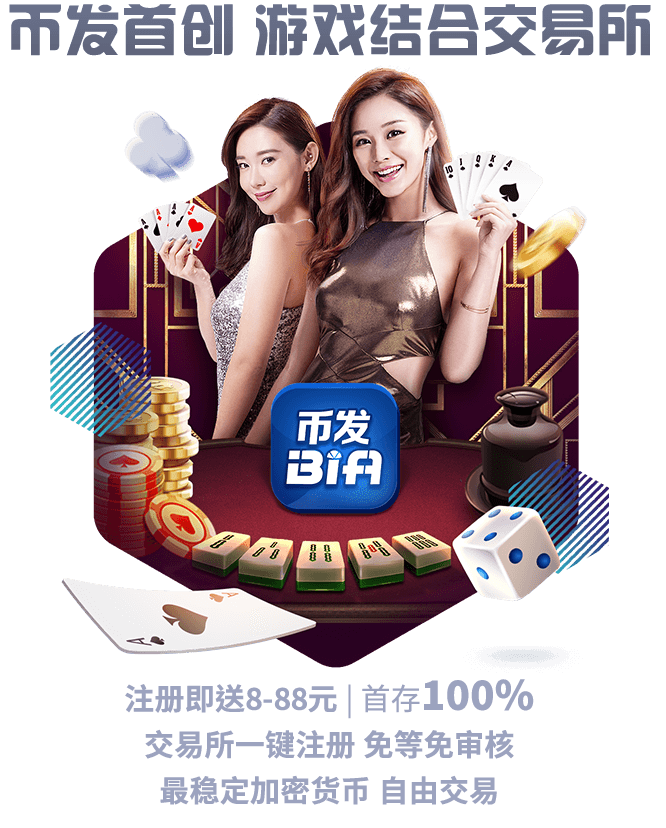
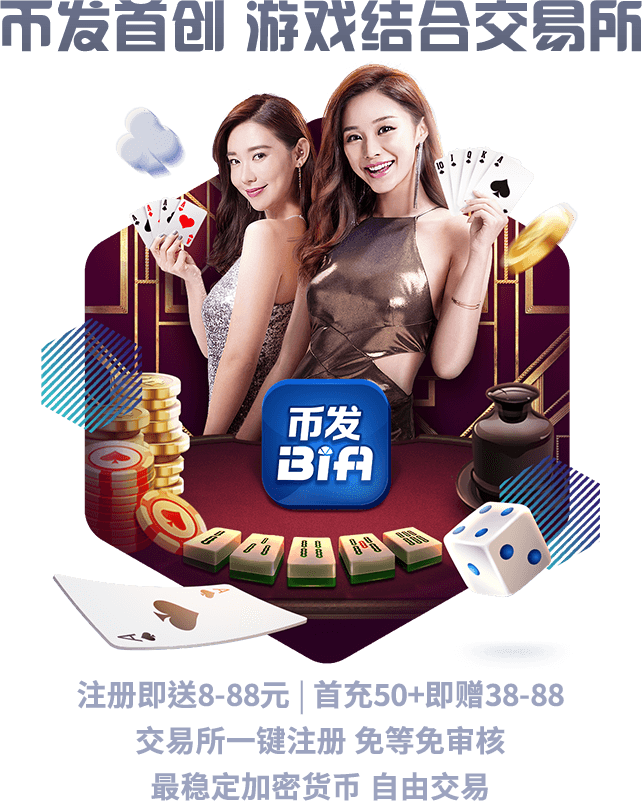
[MOD]幣發 - PC版、手機版-落地頁/loading頁> 調整文案內容

diff --git a/resource/src/assets/css/mobile/pc.scss b/resource/src/assets/css/mobile/pc.scss
@@ -38,7 +38,7 @@ body {
     position: absolute;
     top: 0;
     left: 128px;
-    width: 537px;
+    width: 654px;
     height: 104px;
     -webkit-animation-delay: 0.25s;
     animation-delay: 0.25s;
